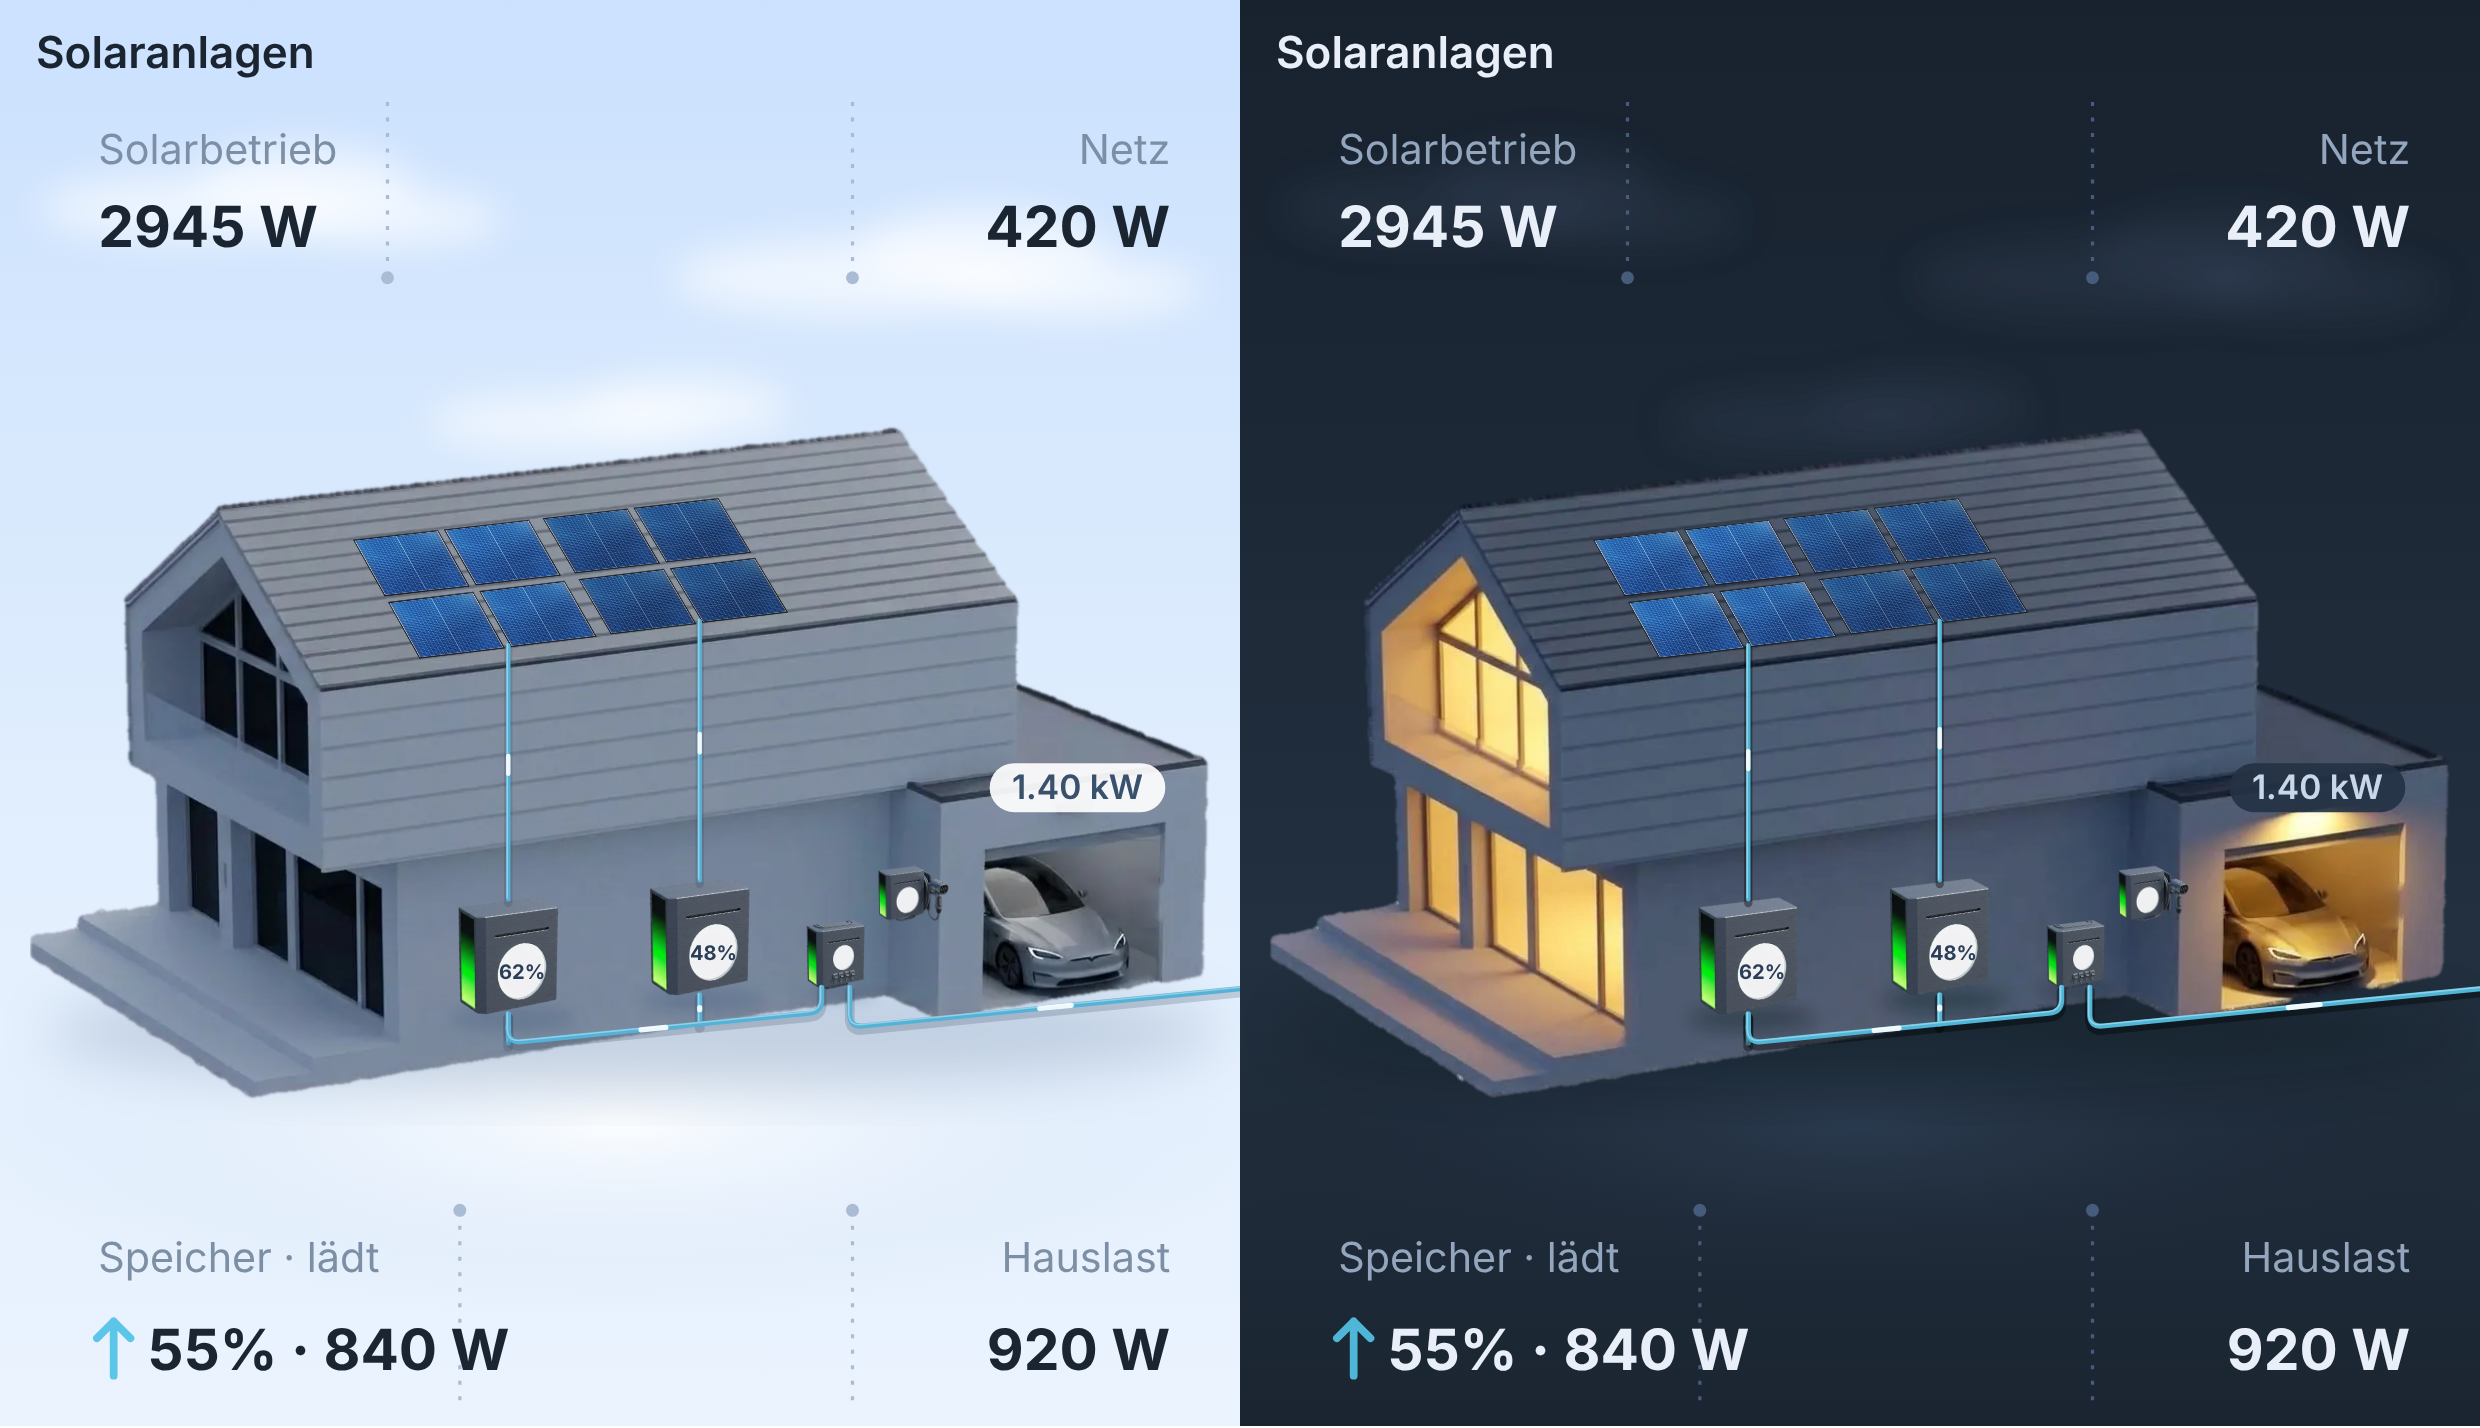
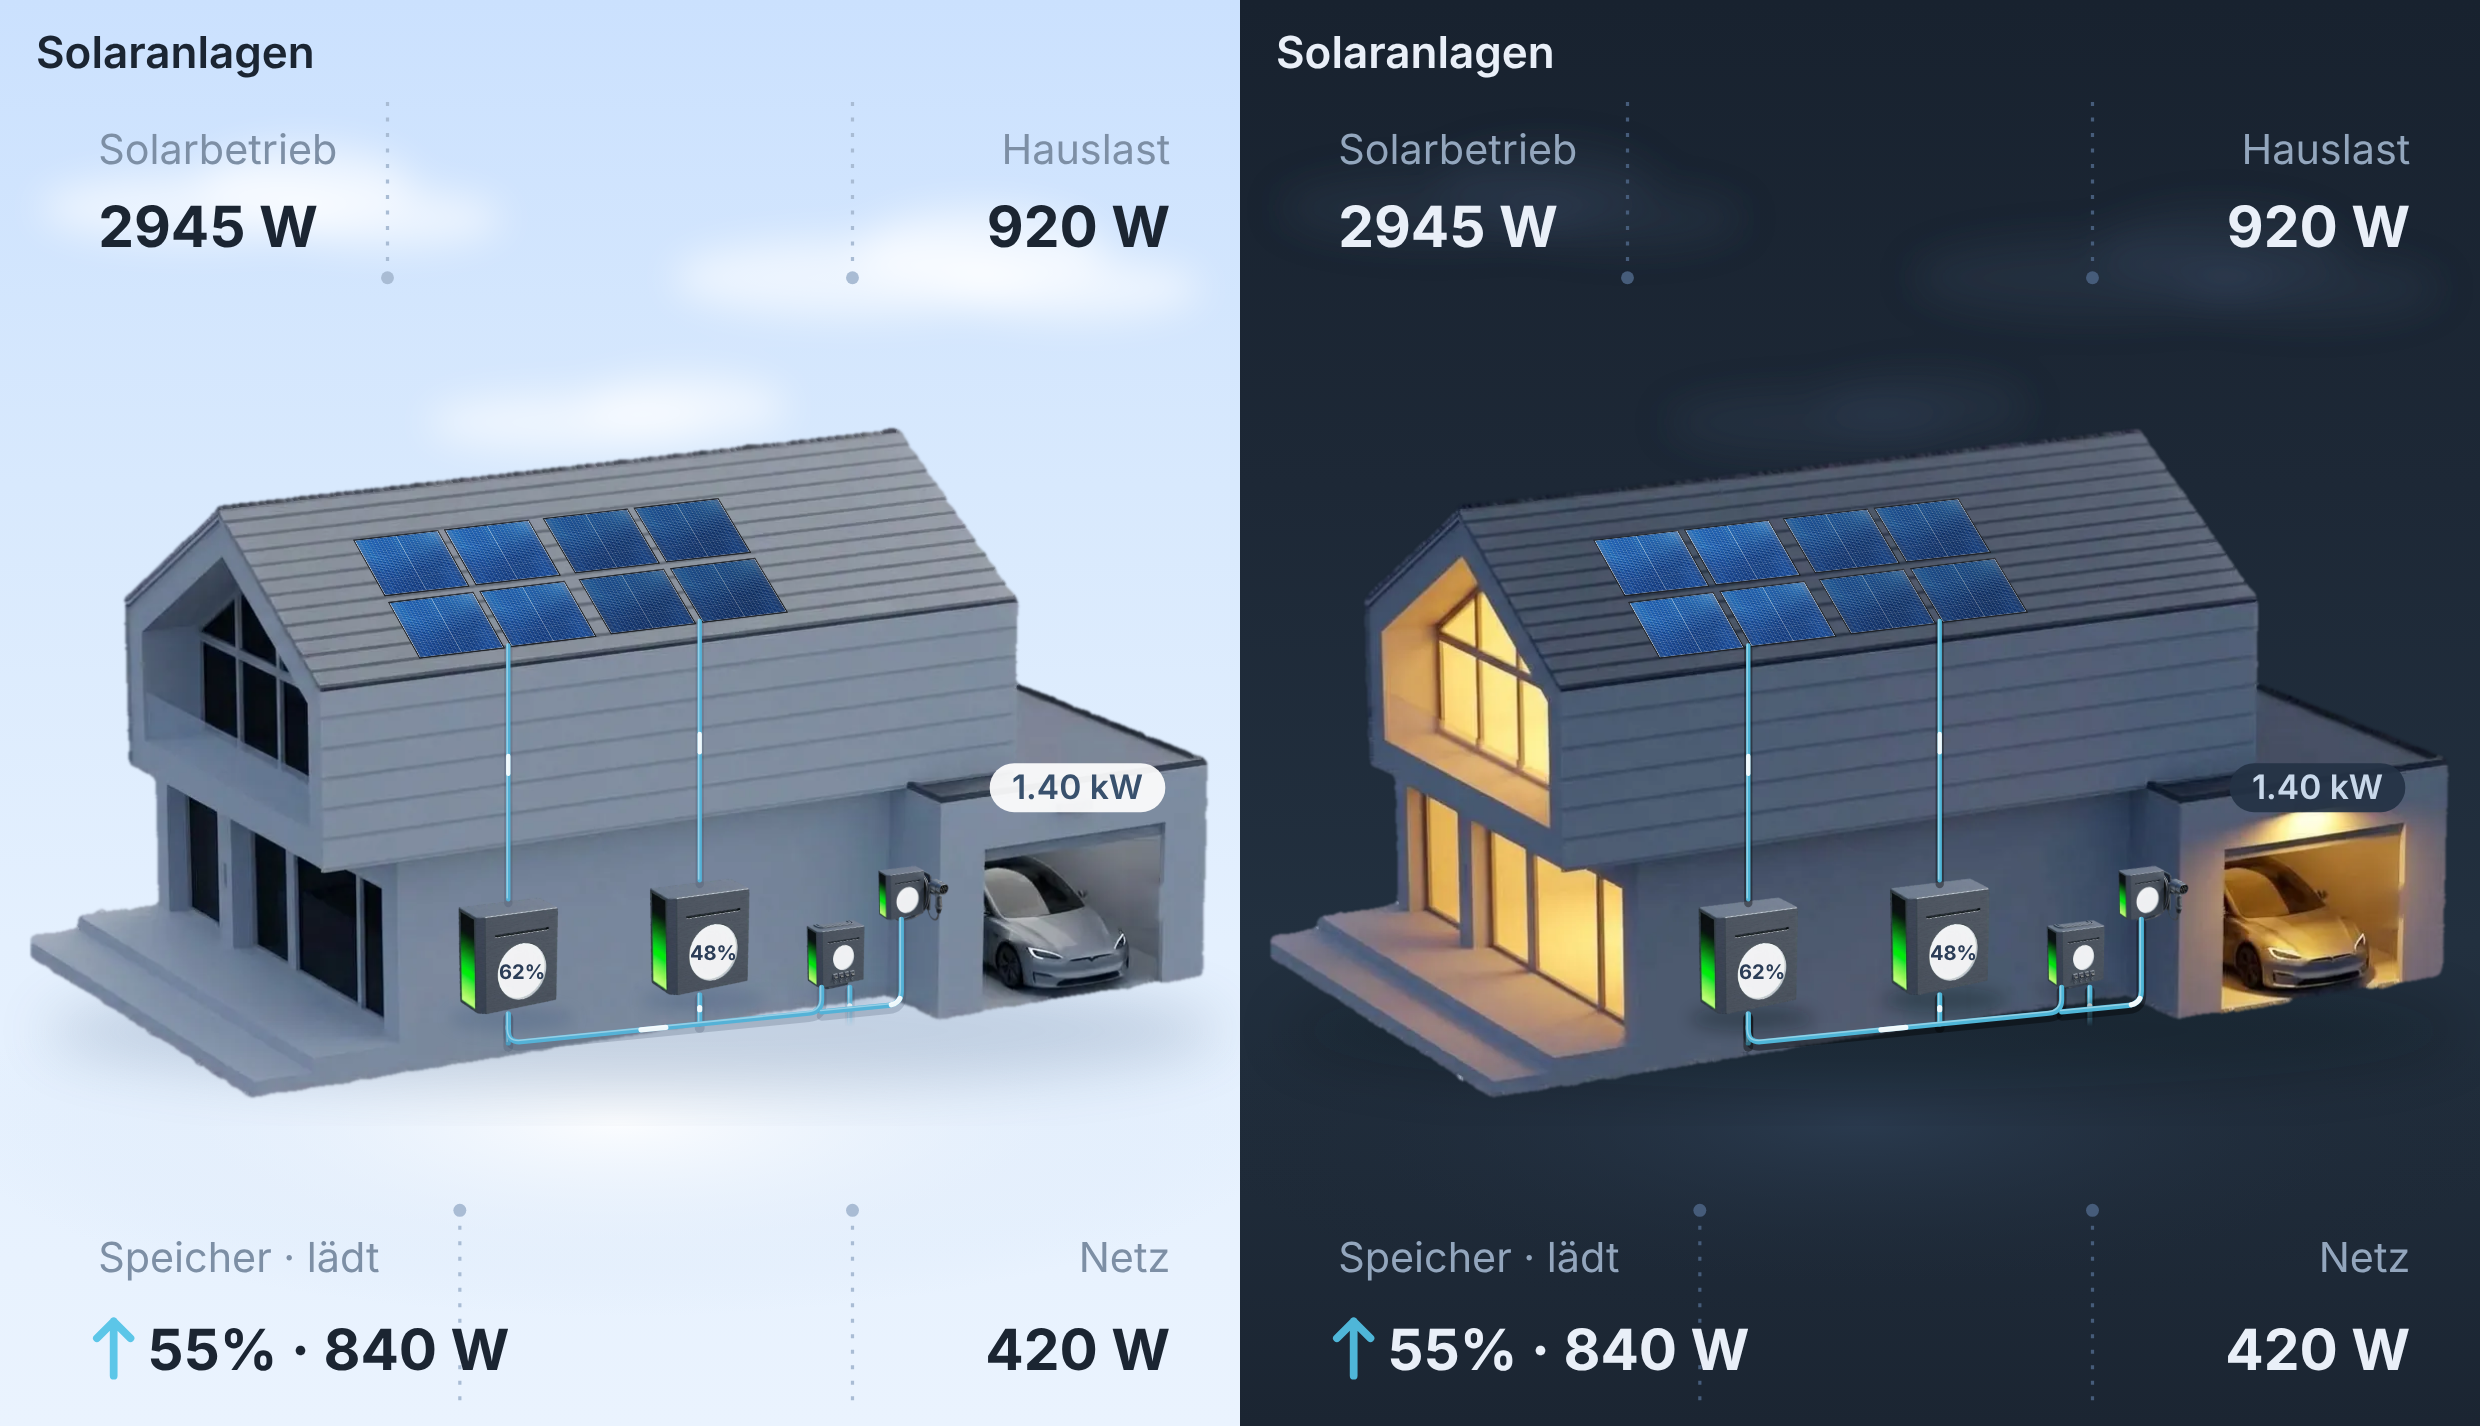
Wallbox on the house circuit, grid cable goes underground, readouts regrouped
The wallbox takes a branch off the rail and rises straight into its underside.
The supply cable leaves the house connection downwards and fades out after a
few centimetres. House load moves to the top right, grid to the bottom right:
own generation and storage on the left, house and grid on the right.

Claude-Session: https://claude.ai/code/session_01DWfH8E93u7fDc6zX1M5bHf

diff --git a/src/sonnendeck-card.ts b/src/sonnendeck-card.ts
@@ -445,9 +445,8 @@ const baseY = (x: number): number => 607 + SLOPE * (x - 365);
 /** the devices were drawn steeper than this wall; a shear lays them onto it */
 const SHEAR = 0.09;
 
-/** the AC cables run on the ground, parallel to the foot of the wall */
+/** the AC cable runs on the ground, parallel to the foot of the wall */
 const RAIL_BAT = 16;
-const RAIL_GRID = 34;
 
 /** where the electrical centre of the wall is */
 const WALL_MID = 570;
@@ -628,14 +627,30 @@ const flowHome = (units: number, blocks: number): string => {
   ], 10);
 };
 
-/** the supply cable arrives along the ground from the right and rises into the connection */
+/**
+ * The supply cable leaves the house connection downwards and goes
+ * underground: it simply fades out after a few centimetres.
+ */
+const GRID_STUB = 34;
 const flowGrid = (): string => {
   const cb = connBox();
   const xr = cb.x + 14;
+  return line([at(xr, cb.y + GRID_STUB), at(xr, cb.y - 3)]);
+};
+
+/**
+ * The wallbox is on the house circuit: from the rail, a short run to the
+ * right, parallel to the foot of the wall, then straight up into its underside.
+ */
+const flowEv = (): string => {
+  const cb = connBox();
+  const w = wallboxBox();
+  const x0 = cb.x - 14;
+  const xw = w.x - w.w / 2 + w.w * 0.33;
   return smooth([
-    at(1230, railY(1230, RAIL_GRID)),
-    at(xr, railY(xr, RAIL_GRID)),
-    at(xr, cb.y - 3),
+    at(x0, railY(x0, RAIL_BAT)),
+    at(xw, railY(xw, RAIL_BAT)),
+    at(xw, w.y - 3),
   ], 10);
 };
 
@@ -689,6 +704,14 @@ const sceneMarkup = (blocks: number, units: number, ev: boolean, _evOnDock: bool
     <filter id="ak-cloud" x="-30%" y="-80%" width="160%" height="260%"><feGaussianBlur stdDeviation="15"/></filter>
 
     <!-- the light strip on a solarbank: grey at rest, warm while it discharges -->
+    <!-- the supply cable goes underground: it fades out over its last centimetres -->
+    <linearGradient id="ak-fade-g" gradientUnits="userSpaceOnUse" x1="0" y1="${at(0, connBox().y + 6)[1].toFixed(1)}" x2="0" y2="${at(0, connBox().y + GRID_STUB + 2)[1].toFixed(1)}">
+      <stop offset="0" stop-color="#fff"/><stop offset="1" stop-color="#000"/>
+    </linearGradient>
+    <mask id="ak-fade" maskUnits="userSpaceOnUse" x="0" y="0" width="${VW}" height="1040">
+      <rect x="0" y="0" width="${VW}" height="${at(0, connBox().y + GRID_STUB + 2)[1].toFixed(1)}" fill="#fff"/>
+      <rect x="0" y="${at(0, connBox().y + 6)[1].toFixed(1)}" width="${VW}" height="${(34 * PLACE.s).toFixed(1)}" fill="url(#ak-fade-g)"/>
+    </mask>
     <filter id="ak-f-idle"><feColorMatrix type="saturate" values="0"/></filter>
     <filter id="ak-f-out"><feColorMatrix type="hueRotate" values="-80"/></filter>
   </defs>
@@ -732,7 +755,8 @@ const sceneMarkup = (blocks: number, units: number, ev: boolean, _evOnDock: bool
   <g class="flows ac" fill="none" stroke-width="4" stroke-linecap="round" stroke-linejoin="round">
     ${Array.from({ length: units }, (_, i) => flowPath('', `ac${i}`, flowStub(i, units, blocks))).join('')}
     ${flowPath('', 'batteryToHome', flowHome(units, blocks))}
-    ${flowPath('', 'gridToHome', flowGrid())}
+    <g mask="url(#ak-fade)">${flowPath('', 'gridToHome', flowGrid())}</g>
+    ${ev ? flowPath('', 'ev', flowEv()) : ''}
   </g>
 
   ${ev ? `<g class="tap garage" data-tap="ev"><rect x="${gx0.toFixed(1)}" y="${gy0.toFixed(1)}" width="${(230 * PLACE.s).toFixed(1)}" height="${(230 * PLACE.s).toFixed(1)}" fill="transparent"/></g>` : ''}
@@ -753,10 +777,10 @@ const sceneMarkup = (blocks: number, units: number, ev: boolean, _evOnDock: bool
     <path class="chev" id="ak-solar-chev" d="M247 99 L264 113 L247 127"/>
   </g>
 
-  <g class="tap" data-tap="grid">
+  <g class="tap" data-tap="home">
     <rect x="${RX - 250}" y="18" width="250" height="126" fill="transparent"/>
-    <text class="cap" x="${RX}" y="62" text-anchor="end" id="ak-grid-cap"></text>
-    <text class="val" x="${RX}" y="126" text-anchor="end" id="ak-grid-val"></text>
+    <text class="cap" x="${RX}" y="62" text-anchor="end" id="ak-home-cap"></text>
+    <text class="val" x="${RX}" y="126" text-anchor="end" id="ak-home-val"></text>
   </g>
 
   <g class="tap" data-tap="battery">
@@ -766,10 +790,10 @@ const sceneMarkup = (blocks: number, units: number, ev: boolean, _evOnDock: bool
     <text class="val" x="114" y="996" id="ak-store-val"></text>
   </g>
 
-  <g class="tap" data-tap="home">
+  <g class="tap" data-tap="grid">
     <rect x="${RX - 250}" y="876" width="250" height="148" fill="transparent"/>
-    <text class="cap" x="${RX}" y="920" text-anchor="end" id="ak-home-cap"></text>
-    <text class="val" x="${RX}" y="996" text-anchor="end" id="ak-home-val"></text>
+    <text class="cap" x="${RX}" y="920" text-anchor="end" id="ak-grid-cap"></text>
+    <text class="val" x="${RX}" y="996" text-anchor="end" id="ak-grid-val"></text>
   </g>
 </svg>`;
 };

diff --git a/dist/sonnendeck-card.js b/dist/sonnendeck-card.js
@@ -276,9 +276,8 @@ const SLOPE = -0.099;
 const baseY = (x) => 607 + SLOPE * (x - 365);
 /** the devices were drawn steeper than this wall; a shear lays them onto it */
 const SHEAR = 0.09;
-/** the AC cables run on the ground, parallel to the foot of the wall */
+/** the AC cable runs on the ground, parallel to the foot of the wall */
 const RAIL_BAT = 16;
-const RAIL_GRID = 34;
 /** where the electrical centre of the wall is */
 const WALL_MID = 570;
 /** the house connection sits at the right end of the wall */
@@ -429,14 +428,29 @@ const flowHome = (units, blocks) => {
         at(xr, cb.y - 3),
     ], 10);
 };
-/** the supply cable arrives along the ground from the right and rises into the connection */
+/**
+ * The supply cable leaves the house connection downwards and goes
+ * underground: it simply fades out after a few centimetres.
+ */
+const GRID_STUB = 34;
 const flowGrid = () => {
     const cb = connBox();
     const xr = cb.x + 14;
+    return line([at(xr, cb.y + GRID_STUB), at(xr, cb.y - 3)]);
+};
+/**
+ * The wallbox is on the house circuit: from the rail, a short run to the
+ * right, parallel to the foot of the wall, then straight up into its underside.
+ */
+const flowEv = () => {
+    const cb = connBox();
+    const w = wallboxBox();
+    const x0 = cb.x - 14;
+    const xw = w.x - w.w / 2 + w.w * 0.33;
     return smooth([
-        at(1230, railY(1230, RAIL_GRID)),
-        at(xr, railY(xr, RAIL_GRID)),
-        at(xr, cb.y - 3),
+        at(x0, railY(x0, RAIL_BAT)),
+        at(xw, railY(xw, RAIL_BAT)),
+        at(xw, w.y - 3),
     ], 10);
 };
 /**
@@ -483,6 +497,14 @@ const sceneMarkup = (blocks, units, ev, _evOnDock) => {
     <filter id="ak-cloud" x="-30%" y="-80%" width="160%" height="260%"><feGaussianBlur stdDeviation="15"/></filter>
 
     <!-- the light strip on a solarbank: grey at rest, warm while it discharges -->
+    <!-- the supply cable goes underground: it fades out over its last centimetres -->
+    <linearGradient id="ak-fade-g" gradientUnits="userSpaceOnUse" x1="0" y1="${at(0, connBox().y + 6)[1].toFixed(1)}" x2="0" y2="${at(0, connBox().y + GRID_STUB + 2)[1].toFixed(1)}">
+      <stop offset="0" stop-color="#fff"/><stop offset="1" stop-color="#000"/>
+    </linearGradient>
+    <mask id="ak-fade" maskUnits="userSpaceOnUse" x="0" y="0" width="${VW}" height="1040">
+      <rect x="0" y="0" width="${VW}" height="${at(0, connBox().y + GRID_STUB + 2)[1].toFixed(1)}" fill="#fff"/>
+      <rect x="0" y="${at(0, connBox().y + 6)[1].toFixed(1)}" width="${VW}" height="${(34 * PLACE.s).toFixed(1)}" fill="url(#ak-fade-g)"/>
+    </mask>
     <filter id="ak-f-idle"><feColorMatrix type="saturate" values="0"/></filter>
     <filter id="ak-f-out"><feColorMatrix type="hueRotate" values="-80"/></filter>
   </defs>
@@ -526,7 +548,8 @@ const sceneMarkup = (blocks, units, ev, _evOnDock) => {
   <g class="flows ac" fill="none" stroke-width="4" stroke-linecap="round" stroke-linejoin="round">
     ${Array.from({ length: units }, (_, i) => flowPath('', `ac${i}`, flowStub(i, units, blocks))).join('')}
     ${flowPath('', 'batteryToHome', flowHome(units, blocks))}
-    ${flowPath('', 'gridToHome', flowGrid())}
+    <g mask="url(#ak-fade)">${flowPath('', 'gridToHome', flowGrid())}</g>
+    ${ev ? flowPath('', 'ev', flowEv()) : ''}
   </g>
 
   ${ev ? `<g class="tap garage" data-tap="ev"><rect x="${gx0.toFixed(1)}" y="${gy0.toFixed(1)}" width="${(230 * PLACE.s).toFixed(1)}" height="${(230 * PLACE.s).toFixed(1)}" fill="transparent"/></g>` : ''}
@@ -547,10 +570,10 @@ const sceneMarkup = (blocks, units, ev, _evOnDock) => {
     <path class="chev" id="ak-solar-chev" d="M247 99 L264 113 L247 127"/>
   </g>
 
-  <g class="tap" data-tap="grid">
+  <g class="tap" data-tap="home">
     <rect x="${RX - 250}" y="18" width="250" height="126" fill="transparent"/>
-    <text class="cap" x="${RX}" y="62" text-anchor="end" id="ak-grid-cap"></text>
-    <text class="val" x="${RX}" y="126" text-anchor="end" id="ak-grid-val"></text>
+    <text class="cap" x="${RX}" y="62" text-anchor="end" id="ak-home-cap"></text>
+    <text class="val" x="${RX}" y="126" text-anchor="end" id="ak-home-val"></text>
   </g>
 
   <g class="tap" data-tap="battery">
@@ -560,10 +583,10 @@ const sceneMarkup = (blocks, units, ev, _evOnDock) => {
     <text class="val" x="114" y="996" id="ak-store-val"></text>
   </g>
 
-  <g class="tap" data-tap="home">
+  <g class="tap" data-tap="grid">
     <rect x="${RX - 250}" y="876" width="250" height="148" fill="transparent"/>
-    <text class="cap" x="${RX}" y="920" text-anchor="end" id="ak-home-cap"></text>
-    <text class="val" x="${RX}" y="996" text-anchor="end" id="ak-home-val"></text>
+    <text class="cap" x="${RX}" y="920" text-anchor="end" id="ak-grid-cap"></text>
+    <text class="val" x="${RX}" y="996" text-anchor="end" id="ak-grid-val"></text>
   </g>
 </svg>`;
 };
